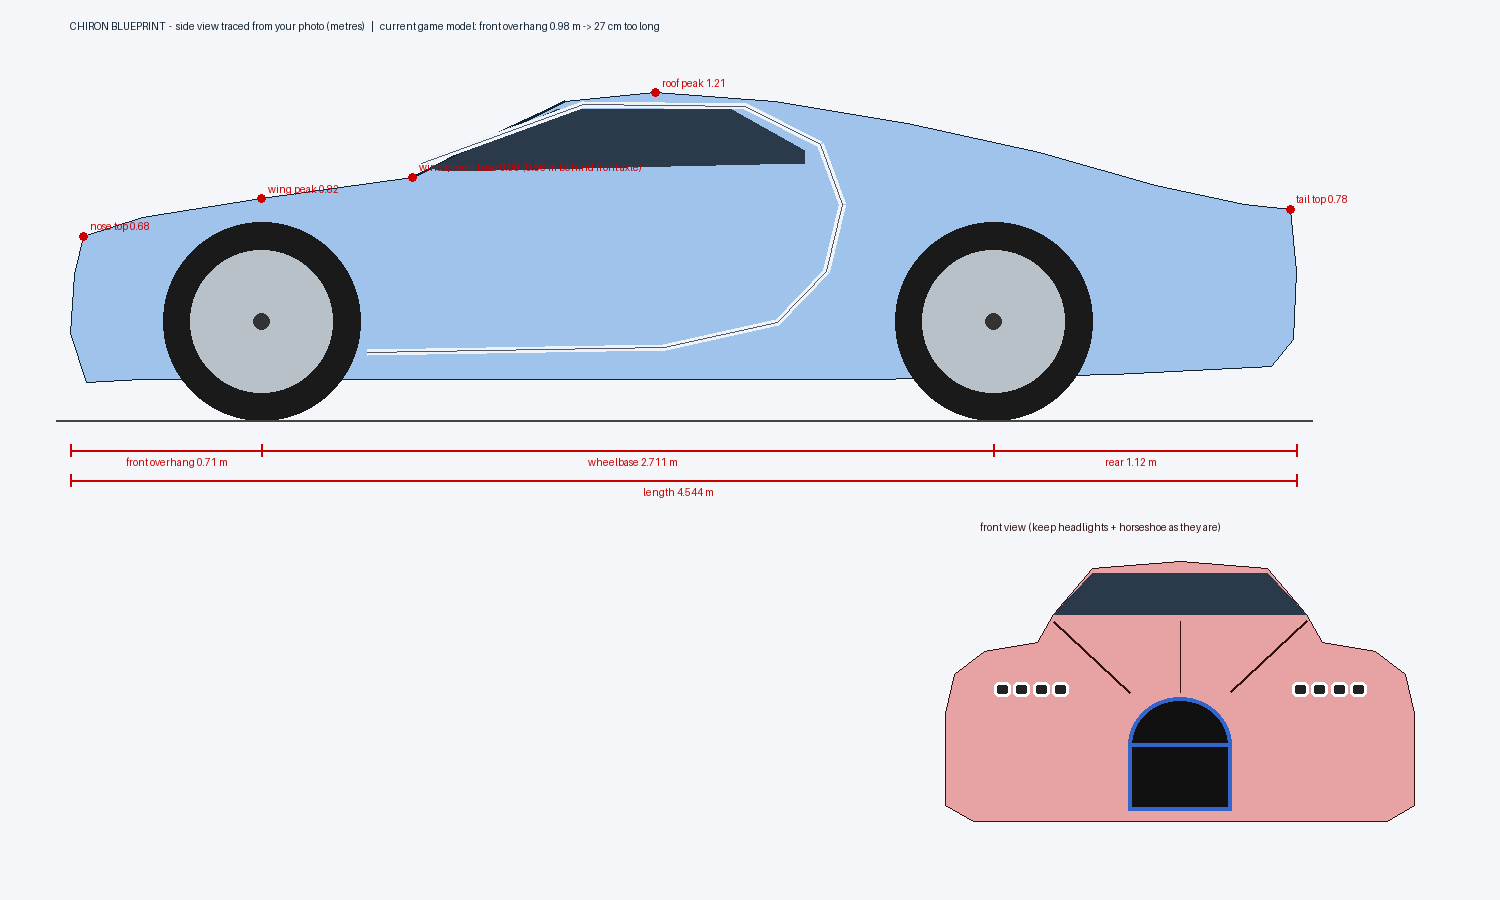
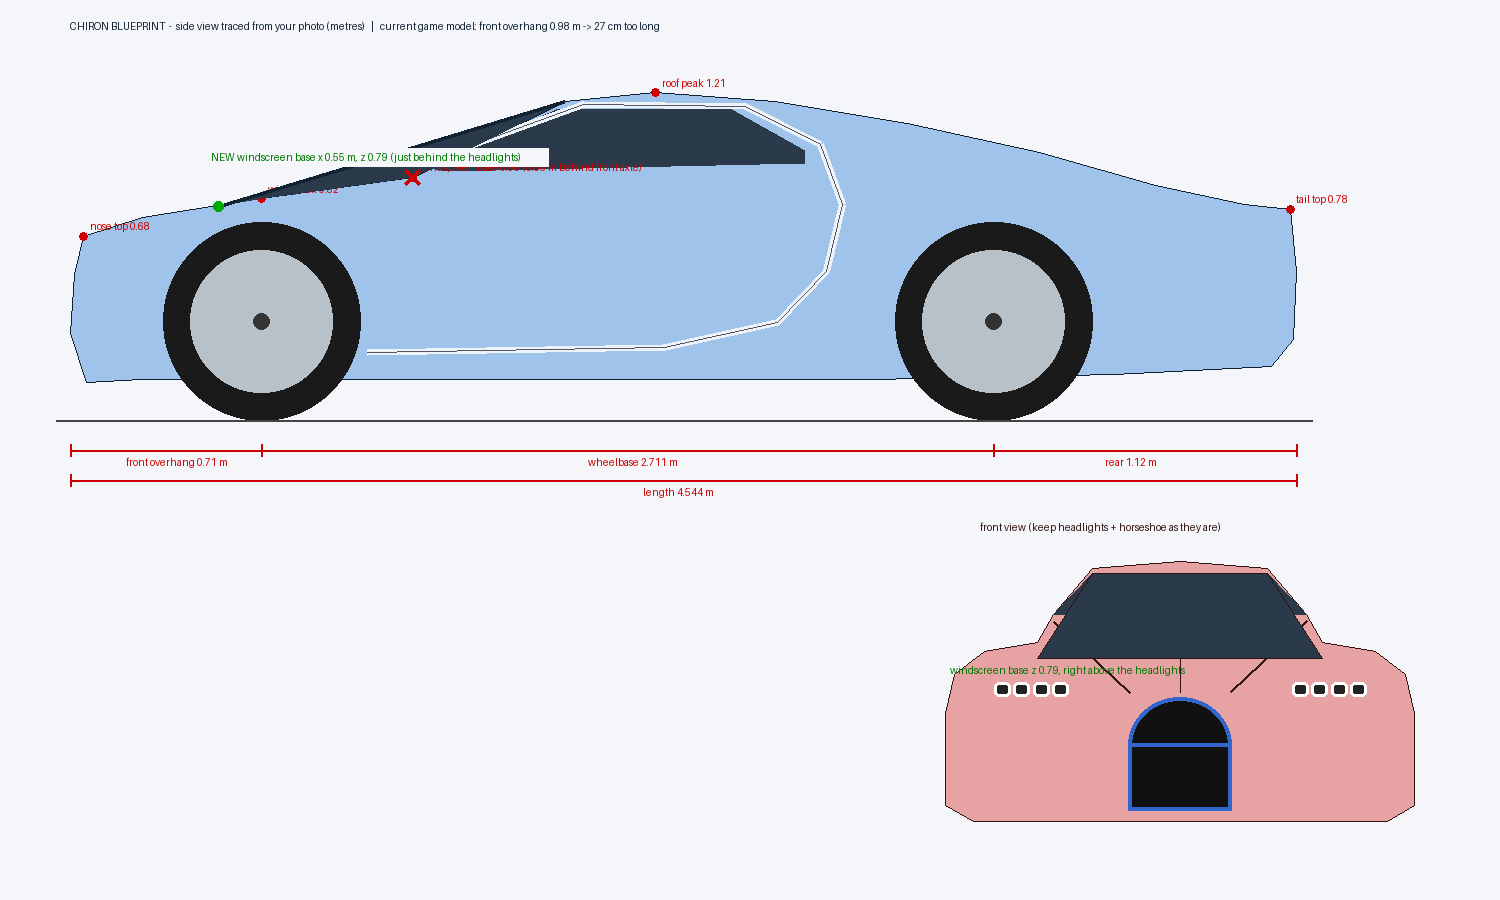
Chiron blueprint: windscreen base moved forward to just behind the headlights (user's marking)
Claude-Session: https://claude.ai/code/session_01MeJTVvWPxdjD3oGd8dTtFw

Changed region(s): [[0.6747, 0.6844, 0.8893, 0.7467], [0.1533, 0.1244, 0.368, 0.2178], [0.1533, 0.2178, 0.184, 0.2489]]

diff --git a/docs/chiron_plan.md b/docs/chiron_plan.md
@@ -9,7 +9,8 @@ What is wrong with the current model (measured against the side photo, scaled by
 Targets (x = metres from the nose, z = height):
 - Front axle at x 0.71, rear axle at x 3.42.
 - Nose top z 0.68 and wing peak z 0.82 over the front wheel.
-- Windscreen base x 1.27 / z 0.90, about 0.56 m behind the front axle.
+- Windscreen base **x 0.55 / z 0.79**, just behind the headlights. The user marked this on a screenshot, and it replaces the traced x 1.27.
+  The glass runs in one long rake up to the roof front at x 1.83 / z 1.18, so the bonnet is only a short strip in front of it.
 - Windscreen top x 1.83 / z 1.18; roof peak x 2.17 / z 1.212.
 - Roof falls to x 3.6 / z 0.99, then the tail top at about z 0.78, with a near-vertical tail.
 - C-line:
